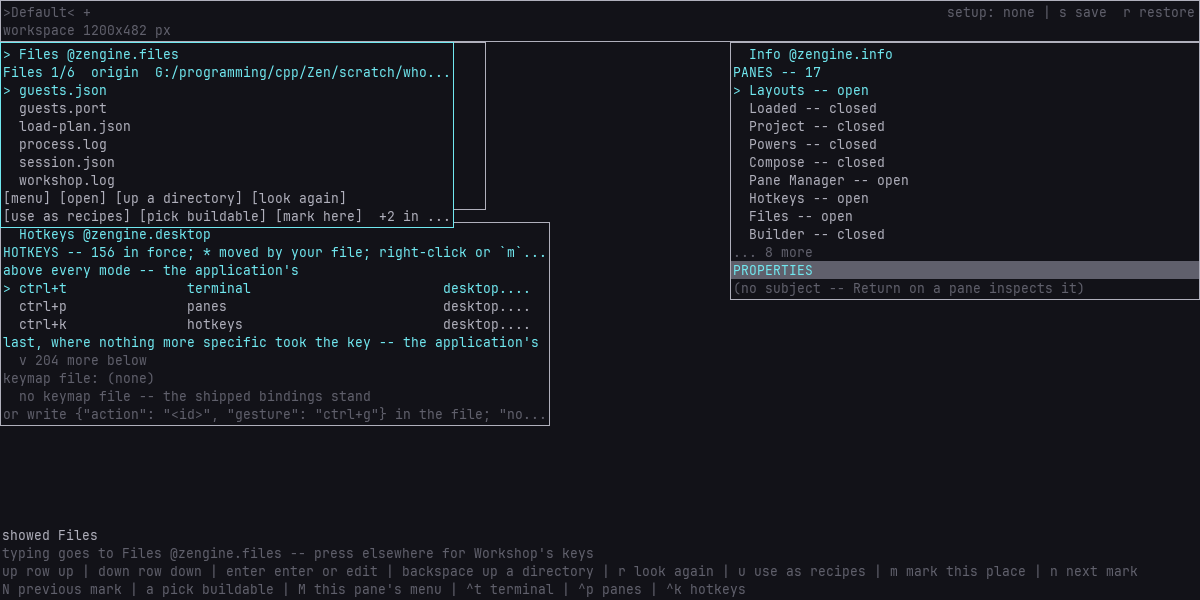
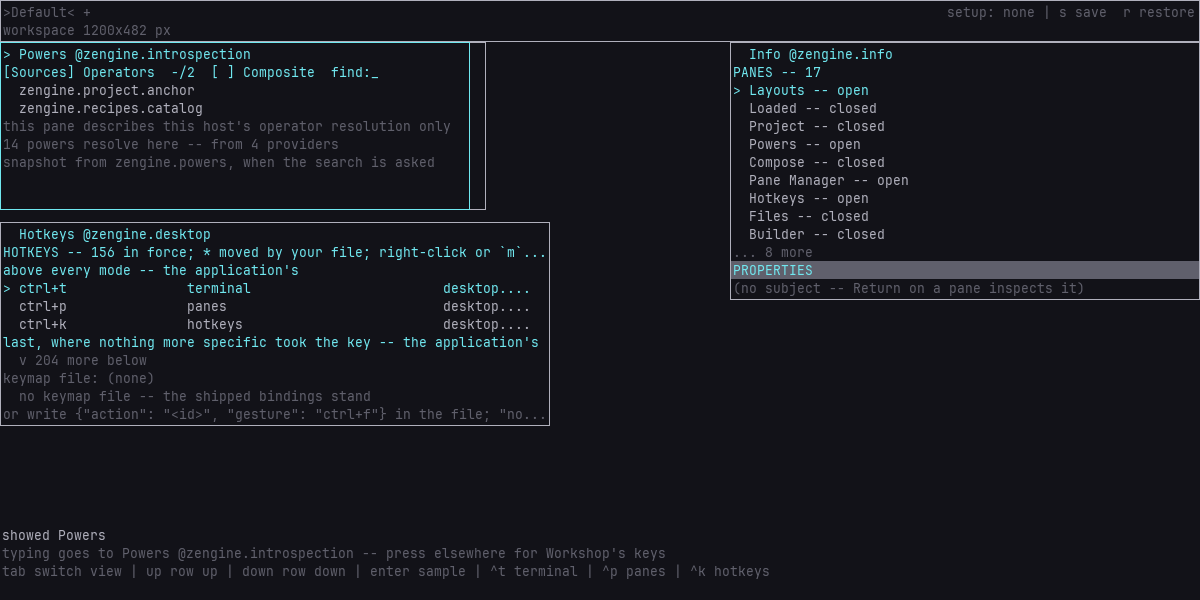
Pictures for the guides: the Hotkeys pane's example names ctrl+f
The snap and the launch-at-the-top pictures showed the Hotkeys pane's old example chord; both are
taken again on the SDL window at this head. The launch picture now shows Powers rather than
Files at the column's top: Files' origin line printed an absolute path on the machine that took
it, which no public page may carry.

diff --git a/docs/workshop/panes.md b/docs/workshop/panes.md
@@ -76,7 +76,7 @@ if that place is off this screen, showing it says so on the band, with the two w
 `Reset >` `place` in its menu, which the Pane Manager's `manage <pane> >` reaches, or hiding it
 and showing it again.
 
-![The Pane Manager and Hotkeys fill the column of a 1200 by 600 window; Files, shown from the Pane Manager, stands at the column's top in front of them, with the keys](images/panes-launch-at-the-top.png)
+![The Pane Manager and Hotkeys fill the column of a 1200 by 600 window; Powers, shown from the Pane Manager, stands at the column's top in front of them, with the keys](images/panes-launch-at-the-top.png)
 
 **Showing never toggles.** `Enter` on a shown pane — or `Ctrl`+`t` while the Terminal is up —
 selects it and gives it the keyboard. It does not hide it, does not take it off your layout,
